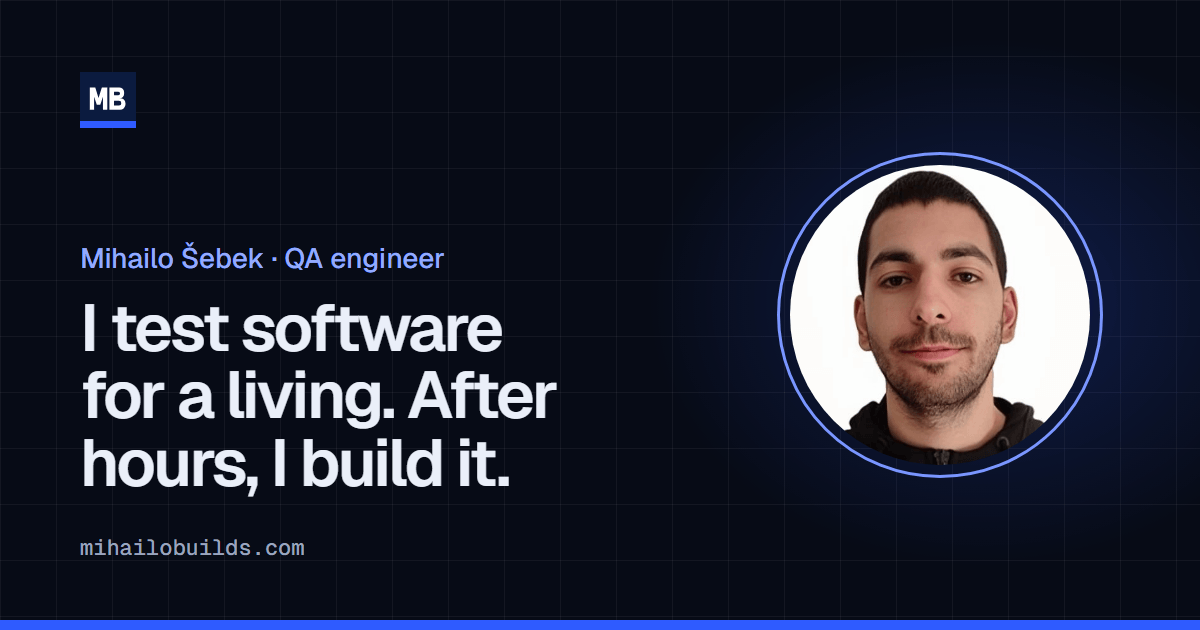
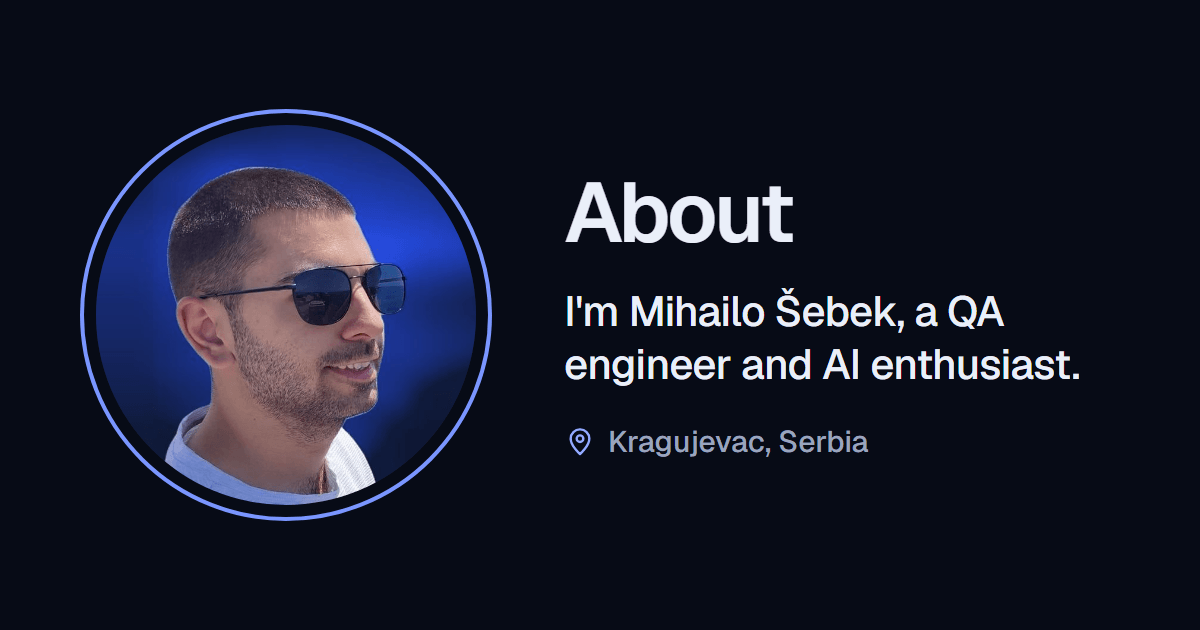
Social preview: the About section, sized for thumbnails
og.png now shows the desktop About section (sea portrait, title, intro,
place) with larger type: LinkedIn shows link images ~360 px wide, where
the page's own text sizes turn illegible. og:image gets ?v=2 so cached
previews refresh.

diff --git a/index.html b/index.html
@@ -12,10 +12,10 @@
     <meta property="og:url" content="__SITE_URL__/" />
     <meta property="og:title" content="MihailoBuilds — Mihailo Šebek, QA Engineer" />
     <meta property="og:description" content="Web apps I develop from my own ideas with AI tools, my bachelor thesis on accessibility testing, my experience and CV." />
-    <meta property="og:image" content="__SITE_URL__/og.png" />
+    <meta property="og:image" content="__SITE_URL__/og.png?v=2" />
     <meta property="og:image:width" content="1200" />
     <meta property="og:image:height" content="630" />
-    <meta property="og:image:alt" content="MihailoBuilds: I test software for a living. After hours, I build it. Mihailo Šebek, QA engineer." />
+    <meta property="og:image:alt" content="About: I'm Mihailo Šebek, a QA engineer and AI enthusiast. Kragujevac, Serbia." />
     <meta name="twitter:card" content="summary_large_image" />
     <meta name="theme-color" content="#070B16" />
     <link rel="icon" href="/favicon.ico" sizes="48x48" />

diff --git a/src/data/profile.ts b/src/data/profile.ts
@@ -19,8 +19,8 @@ export const PROFILE = {
   /** Named as on the CV. */
   education: { school: "Faculty of Natural Sciences and Mathematics, University of Kragujevac", years: "2020 – 2026" },
   /** The photo by the sea, 640×640: the background blurred into the site's
-      blues, the face moved to the middle for the round crop. og.png keeps
-      the CV photo (public/mihailo.jpg). */
+      blues, the face moved to the middle for the round crop. og.png uses
+      it too (scripts/brand-assets.mjs). */
   photo: { src: "/mihailo-sea.jpg", width: 640, height: 640 },
   cv: { href: "/cv/Mihailo-Sebek-CV.pdf", fileName: "Mihailo-Sebek-CV.pdf" },
 };
